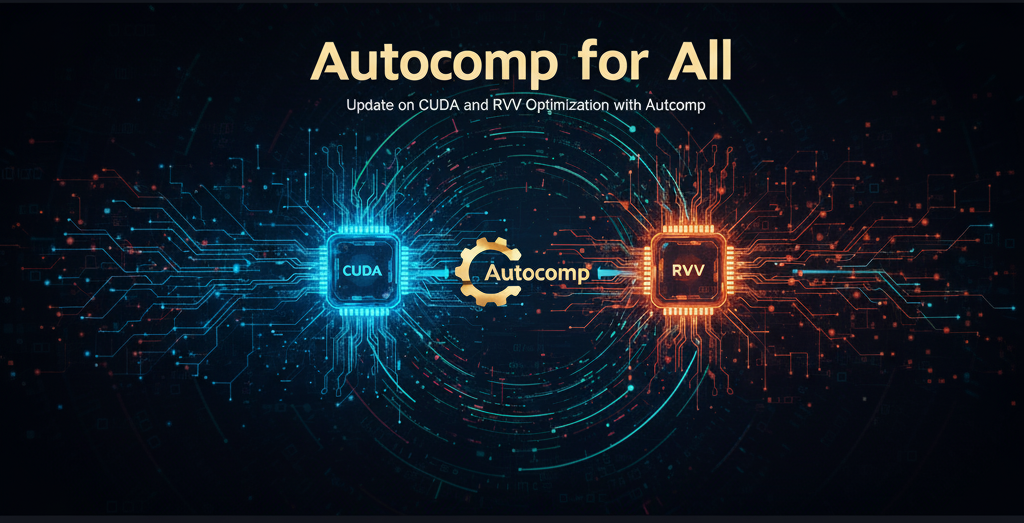
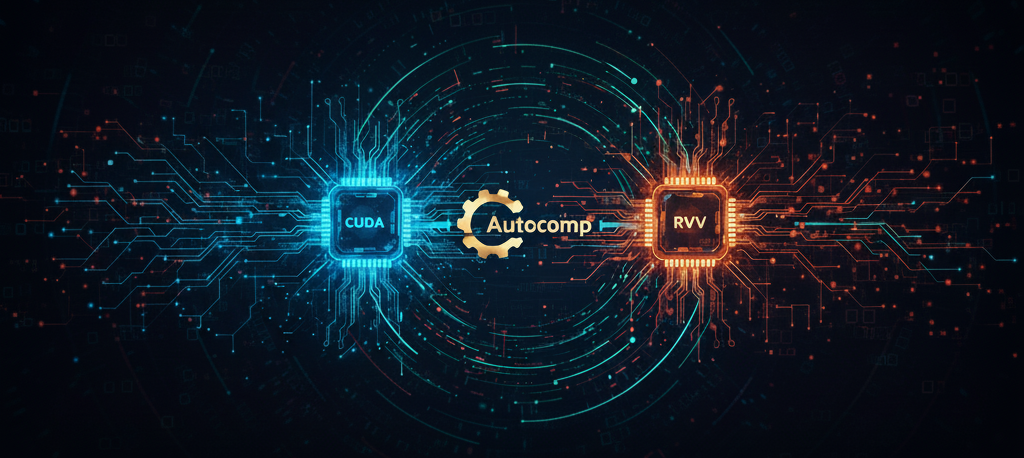
change img

Changed region(s): [[0.0312, 0.0611, 1.0, 0.9476], [0.9062, 0.7031, 0.9375, 0.7336], [0.8438, 0.2445, 0.875, 0.2751]]

diff --git a/blog/autocomp_update.md b/blog/autocomp_update.md
@@ -3,7 +3,7 @@
          alt="AI-generated image of Autocomp optimizing CUDA and RVV code."
          class="center"
          style="min-width:100%;margin-top:30px;">
-    <figcaption style="text-align:center">The growing landscape of tensor accelerators.</figcaption>
+    <!-- <figcaption style="text-align:center">The growing landscape of tensor accelerators.</figcaption> -->
 </figure>
 
 # Autocomp for All: Update on CUDA and RVV Optimization with Autocomp
